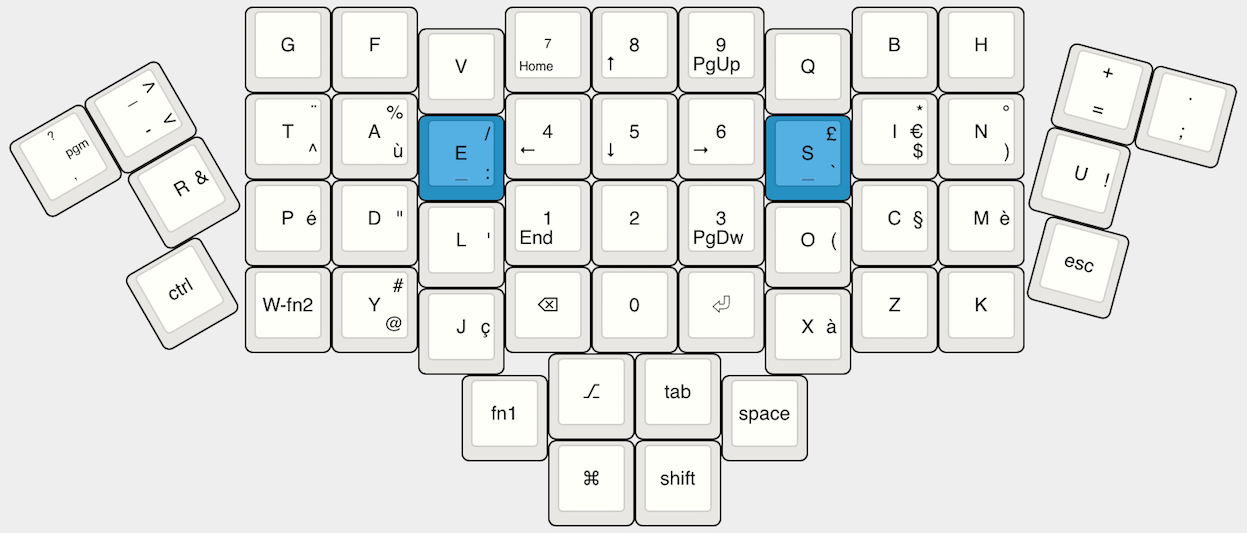
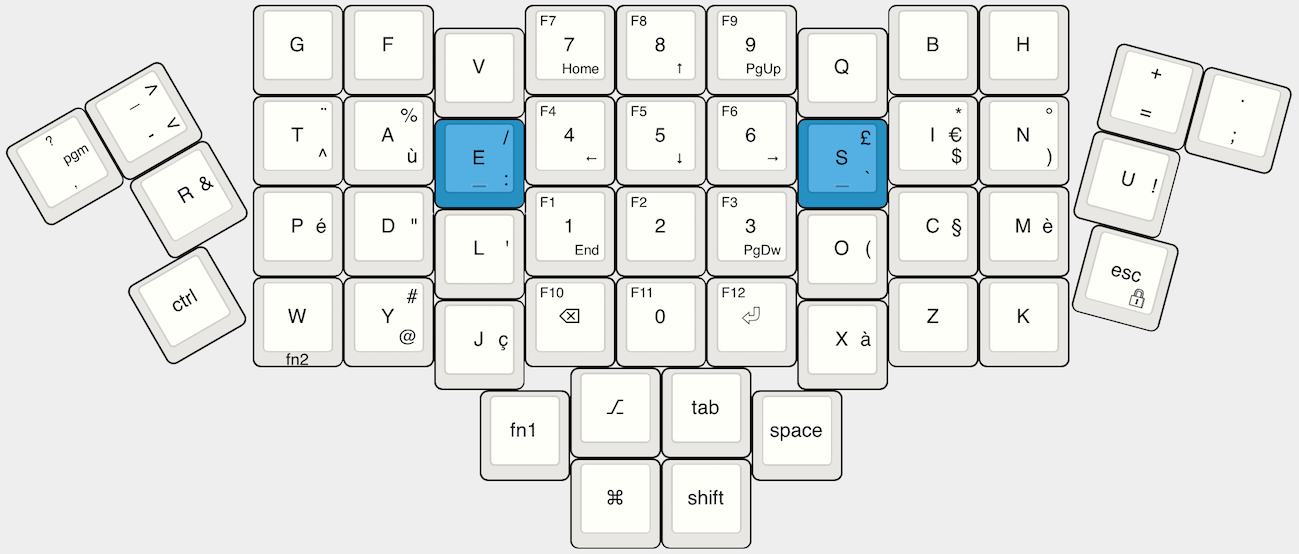
Add lock macro

diff --git a/keymap_qwerty.c b/keymap_qwerty.c
@@ -14,7 +14,7 @@ const uint16_t PROGMEM keymaps[][MATRIX_ROWS][MATRIX_COLS] = {
       KC_FN0,   KC_TRNS,   KC_TRNS,   KC_TRNS,  KC_HOME, KC_UP,   KC_PGUP, KC_TRNS,  KC_TRNS,  KC_TRNS,  KC_TRNS, KC_NO,    KC_NO,
       KC_NUBS,  KC_LBRC,   KC_QUOT,   KC_DOT,   KC_LEFT, KC_DOWN, KC_RGHT, KC_NUHS,  KC_RBRC,  KC_MINS,  KC_TRNS, KC_TRNS,  KC_TRNS,
       KC_1,     KC_2,      KC_3,      KC_4,     KC_END,  KC_TRNS, KC_PGDN, KC_5,     KC_6,     KC_7,     KC_8,    KC_TRNS,  KC_TRNS,
-      KC_TRNS,  KC_TRNS,   KC_GRV,    KC_9,     KC_TRNS, KC_TRNS, KC_TRNS, KC_0,     KC_TRNS,  KC_TRNS,  KC_TRNS, KC_TRNS,  KC_TRNS),
+      KC_TRNS,  KC_TRNS,   KC_GRV,    KC_9,     KC_TRNS, KC_TRNS, KC_TRNS, KC_0,     KC_TRNS,  KC_TRNS,  KC_FN3, KC_TRNS,  KC_TRNS),
   KEYMAP(
       KC_FN0,   KC_TRNS,   KC_TRNS,   KC_TRNS,  KC_F7,    KC_F8,   KC_F9,   KC_TRNS, KC_TRNS, KC_TRNS, KC_TRNS, KC_NO, KC_NO,
       KC_TRNS,  KC_TRNS,   KC_TRNS,   KC_TRNS,  KC_F4,    KC_F5,   KC_F6,   KC_TRNS, KC_TRNS, KC_TRNS, KC_TRNS, KC_TRNS, KC_TRNS,
@@ -25,7 +25,8 @@ const uint16_t PROGMEM keymaps[][MATRIX_ROWS][MATRIX_COLS] = {
 const uint16_t PROGMEM fn_actions[] = {
   [0] = ACTION_FUNCTION(BOOTLOADER),
   [1] = ACTION_LAYER_MOMENTARY(1),
-  [2] = ACTION_LAYER_TAP_KEY(2, KC_Z)
+  [2] = ACTION_LAYER_TAP_KEY(2, KC_Z),
+  [3] = ACTION_MODS_KEY(MOD_LSFT|MOD_LCTL, KC_POWER)
 };
 
 void action_function(keyrecord_t *record, uint8_t id, uint8_t opt)
